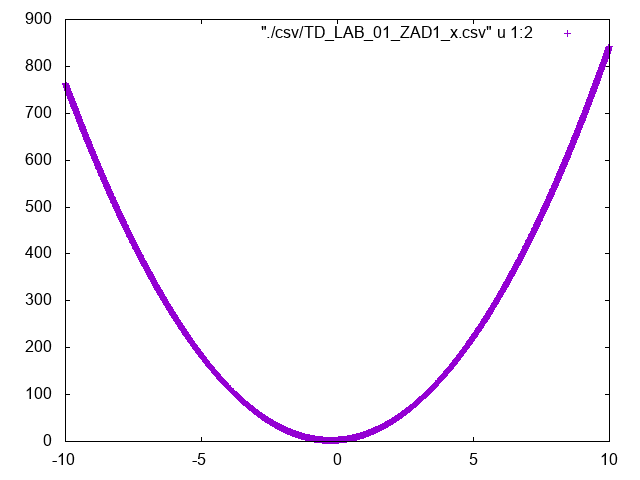
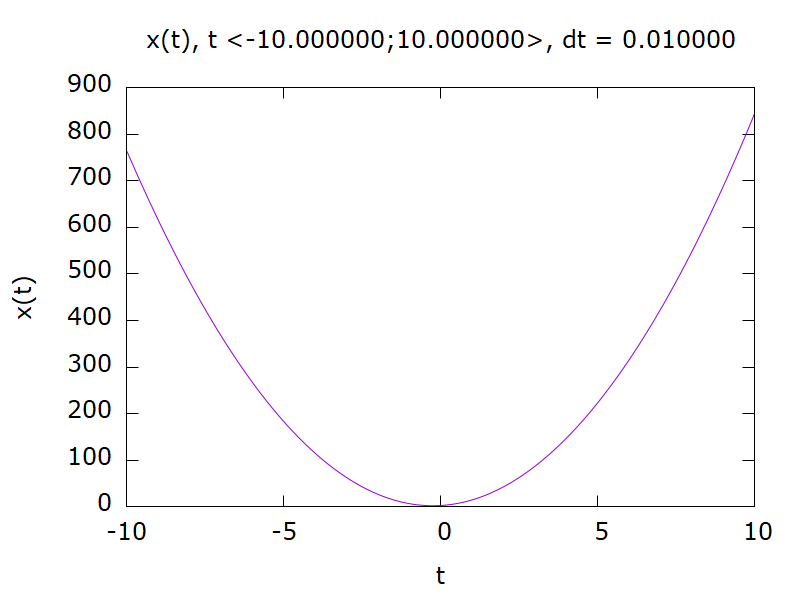
Poprawki do generowania tytulow wykresow, zmiana terminala gnuplot na pngcairo

diff --git a/TD_LAB_01/main.cpp b/TD_LAB_01/main.cpp
@@ -1,4 +1,4 @@
-#define _USE_MATH_DEFINES
+#define _USE_MATH_DEFINES
 
 #include <iostream>
 #include <cmath>
@@ -8,6 +8,8 @@
 using std::cout;
 using std::endl;
 using std::string;
+using std::to_string;
+using namespace chart_utils;
 
 const int a = 8, b = 4, c = 3;
 
@@ -60,46 +62,80 @@ float v(float t) {
 		return pow(t, -0.662) + 0.77 * sin(8 * t);
 }
 
+float p(float t, int N) {
+	float pt = 0;
+
+	for (int n = 1; n <= N; n++)
+		pt += (cos(12 * t * pow(n, 2)) + cos(16 * t * n)) / pow(n, 2);
+
+	return pt;
+}
+
 void zad1() {
 	mZerowe(a, b, c);
 	const float t0 = -10, tN = 10, dt = 1.0 / 100;
 	float tn = t0;
 
 	// x(t)
-	string outX = chart_utils::generateData(t0, tN, tn, dt, x);
-	chart_utils::dataToCsv("csv/TD_LAB_01_ZAD1_x.csv", outX);
-	chart_utils::drawChart("csv/TD_LAB_01_ZAD1_x.csv", "charts/TD_LAB_01_ZAD1_x.png");
+	string outX = generateData(t0, tN, tn, dt, x);
+	string title = "x(t), t <" + to_string(t0) + ";" + to_string(tN) + ">, dt = " + to_string(dt);
+
+	dataToCsv("csv/TD_LAB_01_ZAD1_x.csv", outX);
+	drawChart(title,"t","x(t)","csv/TD_LAB_01_ZAD1_x.csv", "charts/TD_LAB_01_ZAD1_x.png");
 }
 
 void zad2() {
 	const float t0 = 0, tN = 1, dt = 1.0 / 22050;
 	float tn = t0;
+	string title = "";
 
 	// y(t)
-	string outY = chart_utils::generateData(t0, tN, tn, dt, y);
-	chart_utils::dataToCsv("csv/TD_LAB_01_ZAD2_y.csv", outY);
-	chart_utils::drawChart("csv/TD_LAB_01_ZAD2_y.csv", "charts/TD_LAB_01_ZAD2_y.png");
+	string outY = generateData(t0, tN, tn, dt, y);
+	title = "y(t), t <" + to_string(t0) + ";" + to_string(tN) + ">, dt = " + to_string(dt);
+
+	dataToCsv("csv/TD_LAB_01_ZAD2_y.csv", outY);
+	drawChart(title,"t","y(t)","csv/TD_LAB_01_ZAD2_y.csv", "charts/TD_LAB_01_ZAD2_y.png");
 	
 	// z(t)
 	tn = t0;
 
-	string outZ = chart_utils::generateData(t0, tN, tn, dt, z);
-	chart_utils::dataToCsv("csv/TD_LAB_01_ZAD2_z.csv", outZ);
-	chart_utils::drawChart("csv/TD_LAB_01_ZAD2_z.csv", "charts/TD_LAB_01_ZAD2_z.png");
+	string outZ = generateData(t0, tN, tn, dt, z);
+	title = "z(t), t <" + to_string(t0) + ";" + to_string(tN) + ">, dt = " + to_string(dt);
+
+	dataToCsv("csv/TD_LAB_01_ZAD2_z.csv", outZ);
+	drawChart(title,"t","z(t)","csv/TD_LAB_01_ZAD2_z.csv", "charts/TD_LAB_01_ZAD2_z.png");
 
 	// u(t)
 	tn = t0;
 
-	string outU = chart_utils::generateData(t0, tN, tn, dt, u);
-	chart_utils::dataToCsv("csv/TD_LAB_01_ZAD2_u.csv", outU);
-	chart_utils::drawChart("csv/TD_LAB_01_ZAD2_u.csv", "charts/TD_LAB_01_ZAD2_u.png");
+	string outU = generateData(t0, tN, tn, dt, u);
+	title = "u(t), t <" + to_string(t0) + ";" + to_string(tN) + ">, dt = " + to_string(dt);
+
+	dataToCsv("csv/TD_LAB_01_ZAD2_u.csv", outU);
+	drawChart(title,"t","u(t)","csv/TD_LAB_01_ZAD2_u.csv", "charts/TD_LAB_01_ZAD2_u.png");
 
 	// v(t)
 	tn = t0;
 
-	string outV = chart_utils::generateData(t0, tN, tn, dt, v);
-	chart_utils::dataToCsv("csv/TD_LAB_01_ZAD2_v.csv", outV);
-	chart_utils::drawChart("csv/TD_LAB_01_ZAD2_v.csv", "charts/TD_LAB_01_ZAD2_v.png");
+	string outV = generateData(t0, tN, tn, dt, v);
+	title = "v(t), t <" + to_string(t0) + ";" + to_string(tN) + ">, dt = " + to_string(dt);
+
+	dataToCsv("csv/TD_LAB_01_ZAD2_v.csv", outV);
+	drawChart(title,"t","v(t)","csv/TD_LAB_01_ZAD2_v.csv", "charts/TD_LAB_01_ZAD2_v.png");
+
+	// p(t)
+	string outP = "";
+	int arrN[3] = { 2, 4, a * b };
+
+	for (int i = 0; i < 3; i++) {
+		tn = t0;
+
+		string outP = generateData(t0, tN, tn, dt, arrN[i], p);
+		title = "p(t), t <" + to_string(t0) + ";" + to_string(tN) + ">, dt = " + to_string(dt) + ", N = " + to_string(arrN[i]);
+
+		dataToCsv("csv/TD_LAB_01_ZAD2_p_" + to_string(arrN[i]) + ".csv", outP);
+		drawChart(title, "t", "p(t)", "csv/TD_LAB_01_ZAD2_p_" + to_string(arrN[i]) + ".csv", "charts/TD_LAB_01_ZAD2_p_" + to_string(arrN[i]) + ".png");
+	}
 }
 
 int main() {

diff --git a/TD_LAB_01/chart_utils.cpp b/TD_LAB_01/chart_utils.cpp
@@ -22,6 +22,19 @@ namespace chart_utils {
 		return s.str();
 	}
 
+	string generateData(float t0, float tN, float tn, float dt, int N, float(*fn)(float, int)) {
+		int n = 0;
+		stringstream s;
+
+		while (tn <= tN) {
+			s << tn << ";" << fn(tn, N) << ";\n";
+			n++;
+			tn = t0 + (n*dt);
+		}
+
+		return s.str();
+	}
+
 	void dataToCsv(string outputFile, string data) {
 		ofstream of;
 
@@ -30,12 +43,19 @@ namespace chart_utils {
 		of.close();
 	}
 
-	void drawChart(string inputFile, string outputFile) {
+	void drawChart(string title, string xlabel, string ylabel, string inputFile, string outputFile) {
 		Gnuplot gplot;
 
-		gplot.cmd("set terminal png");
+		gplot.cmd("set terminal pngcairo size 800, 600 enhanced font 'Verdana,9'");
 		gplot.cmd("set output \"./" + outputFile + "\"");
 		gplot.cmd("set datafile separator \";\"");
-		gplot.cmd("plot \"./" + inputFile + "\" u 1:2");
+		gplot.cmd("set encoding utf8");
+		gplot.cmd("set title \"" + title + "\"");
+		gplot.cmd("set xlabel \"" + xlabel + "\"");
+		gplot.cmd("set ylabel \"" + ylabel + "\"");
+		gplot.cmd("set style line 1 linetype 1 linewidth 1");
+		gplot.cmd("unset key");
+		gplot.cmd("set samples 1000");
+		gplot.cmd("plot \"./" + inputFile + "\" u 1:2 with lines linestyle 1");
 	}
 }

diff --git a/TD_LAB_01/chart_utils.h b/TD_LAB_01/chart_utils.h
@@ -7,8 +7,9 @@ using std::string;
 
 namespace chart_utils {
 	string generateData(float, float, float, float, float(*fn)(float));
+	string generateData(float, float, float, float, int, float(*fn)(float, int));
 	void dataToCsv(string, string);
-	void drawChart(string, string);
+	void drawChart(string, string, string, string, string);
 }
 
 #endif
